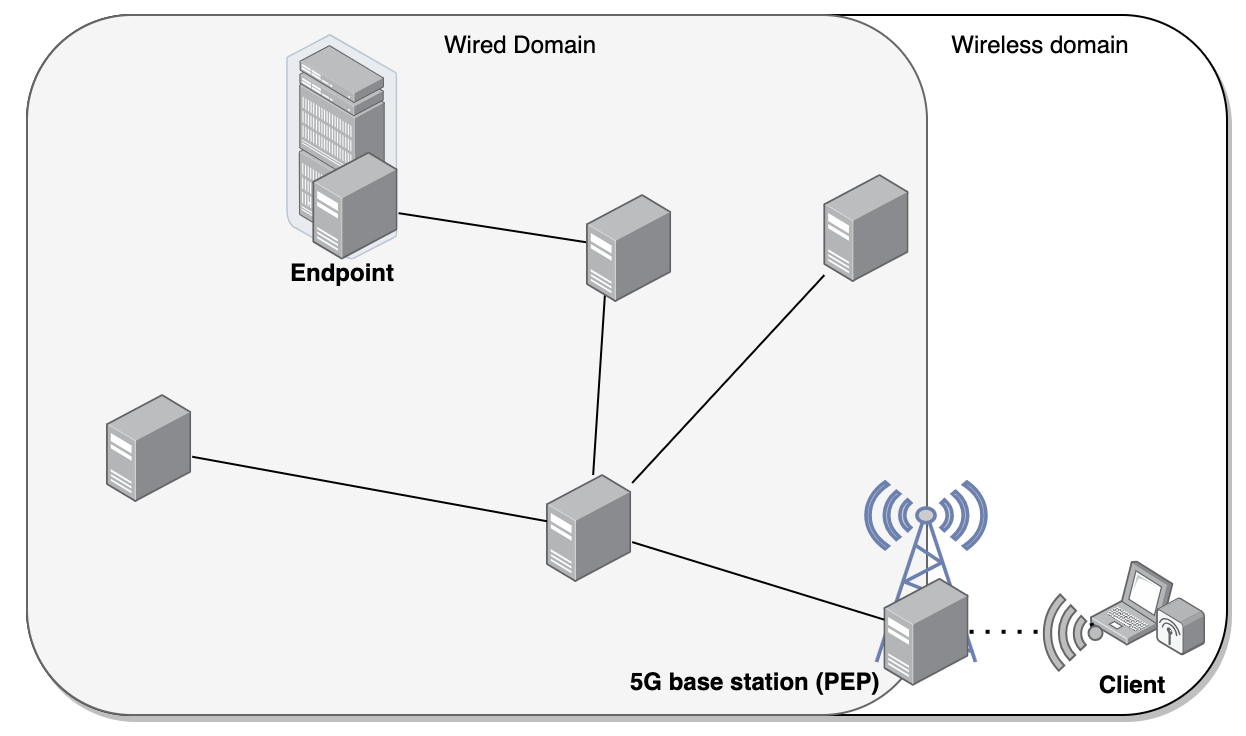
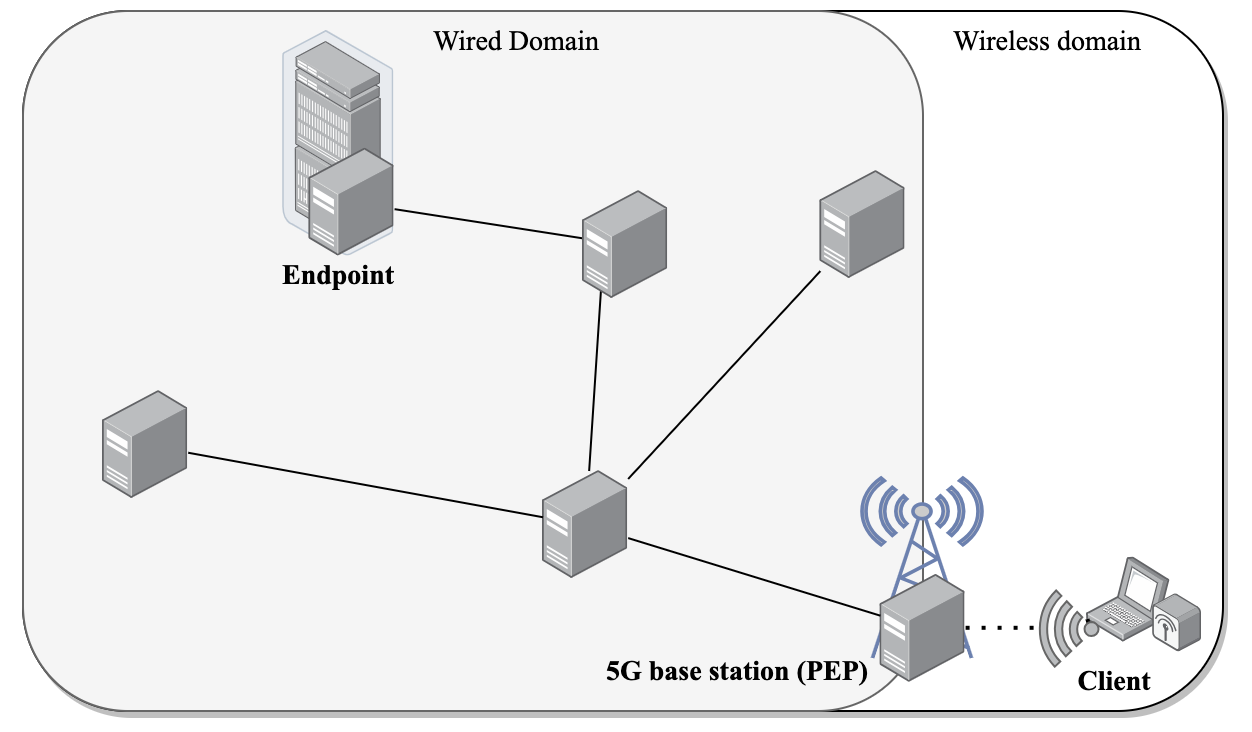
Thesis: new paragraph and diagram update

diff --git a/thesis/uio-master.tex b/thesis/uio-master.tex
@@ -279,6 +279,10 @@ A connection splitting proxy has the benefit of additionally splitting the conne
 
 Each socket connection can be configured to use a certain congestion controller, unrelated to the system wide default. Which would be impossible with a single end to end connection. In addition to configuring the congestion controller, a socket can also add TCP options, such as TCP Fast Open, to a connection.
 
+\paragraph{Bandwidth utilization}
+Better bandwidth utilization when splititnf connections.\\
+[PICTURE]
+
 \subsection{PEP Selection}
 The connection process to the PEP, and later on the endpoint, is established by informing the PEP of the desired endpoint of the client. This can be achieved by a variety of ways where the goal is to attach additional information to the default connection process of TCP. Preferably, we do not want the overhead of needing an entire additional round trip just to pass this information. Figure \ref{fig:tcphandshake_primitiv} visualizes the RTT overhead of sending this information (in red) to the PEP before application data can be sent.\\
 
